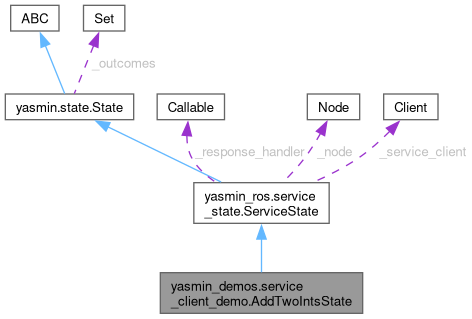
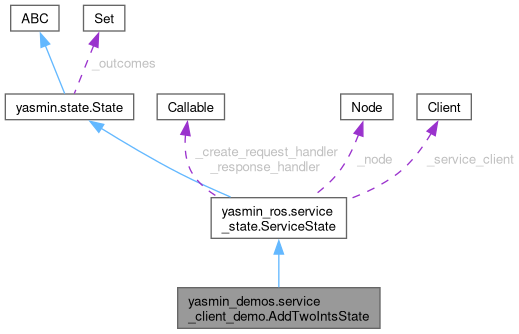
deploy: 8dfc3470e88c670ebcb5c7ff304bde43445bc00b

Changed region(s): [[0.0, 0.0, 1.0, 0.9875]]

diff --git a/yasmin_python/html/classyasmin__ros_1_1service__state_1_1ServiceState.html b/yasmin_python/html/classyasmin__ros_1_1service__state_1_1ServiceState.html
@@ -115,19 +115,19 @@ Collaboration diagram for yasmin_ros.service_state.ServiceState:</div>
 <div class="dyncontent">
 <div class="center"><img src="classyasmin__ros_1_1service__state_1_1ServiceState__coll__graph.png" border="0" usemap="#ayasmin__ros_8service__state_8ServiceState_coll__map" alt="Collaboration graph"/></div>
 <map name="ayasmin__ros_8service__state_8ServiceState_coll__map" id="ayasmin__ros_8service__state_8ServiceState_coll__map">
-<area shape="rect" title=" " alt="" coords="194,183,329,223"/>
+<area shape="rect" title=" " alt="" coords="211,198,346,238"/>
 <area shape="rect" href="classyasmin_1_1state_1_1State.html" title=" " alt="" coords="5,94,134,120"/>
-<area shape="poly" title=" " alt="" coords="109,124,222,180,220,184,107,129"/>
+<area shape="poly" title=" " alt="" coords="102,126,181,171,232,195,229,199,179,176,99,130"/>
 <area shape="rect" title=" " alt="" coords="11,5,59,31"/>
 <area shape="poly" title=" " alt="" coords="48,44,67,93,62,95,43,46"/>
 <area shape="rect" title=" " alt="" coords="84,5,125,31"/>
 <area shape="poly" title=" " alt="" coords="96,46,77,95,72,93,91,44"/>
 <area shape="rect" title=" " alt="" coords="157,94,224,120"/>
-<area shape="poly" title=" " alt="" coords="189,135,195,158,204,170,217,180,214,184,201,174,190,160,184,136"/>
-<area shape="rect" title=" " alt="" coords="307,94,360,120"/>
-<area shape="poly" title=" " alt="" coords="323,134,306,160,285,184,281,180,302,157,319,132"/>
-<area shape="rect" title=" " alt="" coords="384,94,438,120"/>
-<area shape="poly" title=" " alt="" coords="392,133,359,161,315,185,312,180,356,156,388,129"/>
+<area shape="poly" title=" " alt="" coords="188,135,188,154,195,172,206,185,220,195,217,199,202,189,190,175,183,155,183,135"/>
+<area shape="rect" title=" " alt="" coords="341,94,393,120"/>
+<area shape="poly" title=" " alt="" coords="361,136,352,156,340,175,314,199,310,195,335,172,347,153,356,134"/>
+<area shape="rect" title=" " alt="" coords="417,94,471,120"/>
+<area shape="poly" title=" " alt="" coords="433,135,419,156,399,176,375,191,348,202,346,197,372,186,396,172,415,153,429,132"/>
 </map>
 <center><span class="legend">[<a href="graph_legend.html">legend</a>]</span></center></div>
 <table class="memberdecls">
@@ -153,9 +153,9 @@ Public Member Functions</h2></td></tr>
 </table><table class="memberdecls">
 <tr class="heading"><td colspan="2"><h2 class="groupheader"><a id="pro-attribs" name="pro-attribs"></a>
 Protected Attributes</h2></td></tr>
-<tr class="memitem:a66afa1424fc2a8bacafb57e2f730730e" id="r_a66afa1424fc2a8bacafb57e2f730730e"><td class="memItemLeft" align="right" valign="top">tuple&#160;</td><td class="memItemRight" valign="bottom"><a class="el" href="#a66afa1424fc2a8bacafb57e2f730730e">_create_request_handler</a></td></tr>
-<tr class="memdesc:a66afa1424fc2a8bacafb57e2f730730e"><td class="mdescLeft">&#160;</td><td class="mdescRight">A function that creates the service request.  <br /></td></tr>
-<tr class="separator:a66afa1424fc2a8bacafb57e2f730730e"><td class="memSeparator" colspan="2">&#160;</td></tr>
+<tr class="memitem:a6e80320e7112ef28d5c6de350394e76e" id="r_a6e80320e7112ef28d5c6de350394e76e"><td class="memItemLeft" align="right" valign="top">Callable[[<a class="el" href="classyasmin_1_1blackboard_1_1Blackboard.html">Blackboard</a>], Any]&#160;</td><td class="memItemRight" valign="bottom"><a class="el" href="#a6e80320e7112ef28d5c6de350394e76e">_create_request_handler</a> = create_request_handler</td></tr>
+<tr class="memdesc:a6e80320e7112ef28d5c6de350394e76e"><td class="mdescLeft">&#160;</td><td class="mdescRight">A function that creates the service request.  <br /></td></tr>
+<tr class="separator:a6e80320e7112ef28d5c6de350394e76e"><td class="memSeparator" colspan="2">&#160;</td></tr>
 <tr class="memitem:a008725f8428bb29b2094962f62e75ed1" id="r_a008725f8428bb29b2094962f62e75ed1"><td class="memItemLeft" align="right" valign="top">Callable[[<a class="el" href="classyasmin_1_1blackboard_1_1Blackboard.html">Blackboard</a>, Any], str]&#160;</td><td class="memItemRight" valign="bottom"><a class="el" href="#a008725f8428bb29b2094962f62e75ed1">_response_handler</a> = response_handler</td></tr>
 <tr class="memdesc:a008725f8428bb29b2094962f62e75ed1"><td class="mdescLeft">&#160;</td><td class="mdescRight">A function that processes the service response.  <br /></td></tr>
 <tr class="separator:a008725f8428bb29b2094962f62e75ed1"><td class="memSeparator" colspan="2">&#160;</td></tr>
@@ -249,9 +249,9 @@ Attributes:
 Parameters:
     srv_type (Type): The type of the service.
     srv_name (str): The name of the service to be called.
-    create_request_handler (Callable): A handler to create the request based on the blackboard data.
+    create_request_handler (Callable[[Blackboard], Any]): A handler to create the request based on the blackboard data.
     outcomes (Set[str], optional): A set of additional outcomes for this state.
-    response_handler (Callable, optional): A handler to process the service response.
+    response_handler (Callable[[Blackboard, Any], str], optional): A handler to process the service response.
     node (Node, optional): A ROS node instance; if None, a default instance is used.
     timeout (float, optional): Timeout duration for waiting on the service.
 
@@ -304,8 +304,8 @@ Exceptions:
 </div>
 </div>
 <h2 class="groupheader">Member Data Documentation</h2>
-<a id="a66afa1424fc2a8bacafb57e2f730730e" name="a66afa1424fc2a8bacafb57e2f730730e"></a>
-<h2 class="memtitle"><span class="permalink"><a href="#a66afa1424fc2a8bacafb57e2f730730e">&#9670;&#160;</a></span>_create_request_handler</h2>
+<a id="a6e80320e7112ef28d5c6de350394e76e" name="a6e80320e7112ef28d5c6de350394e76e"></a>
+<h2 class="memtitle"><span class="permalink"><a href="#a6e80320e7112ef28d5c6de350394e76e">&#9670;&#160;</a></span>_create_request_handler</h2>
 
 <div class="memitem">
 <div class="memproto">
@@ -314,7 +314,7 @@ Exceptions:
   <td class="mlabels-left">
       <table class="memname">
         <tr>
-          <td class="memname">tuple yasmin_ros.service_state.ServiceState._create_request_handler</td>
+          <td class="memname">Callable[[<a class="el" href="classyasmin_1_1blackboard_1_1Blackboard.html">Blackboard</a>], Any] yasmin_ros.service_state.ServiceState._create_request_handler = create_request_handler</td>
         </tr>
       </table>
   </td>
@@ -323,10 +323,7 @@ Exceptions:
   </tr>
 </table>
 </div><div class="memdoc">
-<b>Initial value:</b><div class="fragment"><div class="line">=  (</div>
-<div class="line">            create_request_handler</div>
-<div class="line">        )</div>
-</div><!-- fragment -->
+
 <p>A function that creates the service request. </p>
 
 </div>

diff --git a/yasmin_python/html/classyasmin__demos_1_1service__client__demo_1_1AddTwoIntsState.html b/yasmin_python/html/classyasmin__demos_1_1service__client__demo_1_1AddTwoIntsState.html
@@ -115,21 +115,21 @@ Collaboration diagram for yasmin_demos.service_client_demo.AddTwoIntsState:</div
 <div class="dyncontent">
 <div class="center"><img src="classyasmin__demos_1_1service__client__demo_1_1AddTwoIntsState__coll__graph.png" border="0" usemap="#ayasmin__demos_8service__client__demo_8AddTwoIntsState_coll__map" alt="Collaboration graph"/></div>
 <map name="ayasmin__demos_8service__client__demo_8AddTwoIntsState_coll__map" id="ayasmin__demos_8service__client__demo_8AddTwoIntsState_coll__map">
-<area shape="rect" title=" " alt="" coords="160,273,363,313"/>
-<area shape="rect" href="classyasmin__ros_1_1service__state_1_1ServiceState.html" title=" " alt="" coords="194,183,329,223"/>
-<area shape="poly" title=" " alt="" coords="264,239,264,272,259,272,259,239"/>
+<area shape="rect" title=" " alt="" coords="178,288,380,328"/>
+<area shape="rect" href="classyasmin__ros_1_1service__state_1_1ServiceState.html" title=" " alt="" coords="211,198,346,238"/>
+<area shape="poly" title=" " alt="" coords="282,254,282,287,276,287,276,254"/>
 <area shape="rect" href="classyasmin_1_1state_1_1State.html" title=" " alt="" coords="5,94,134,120"/>
-<area shape="poly" title=" " alt="" coords="109,124,222,180,220,184,107,129"/>
+<area shape="poly" title=" " alt="" coords="102,126,181,171,232,195,229,199,179,176,99,130"/>
 <area shape="rect" title=" " alt="" coords="11,5,59,31"/>
 <area shape="poly" title=" " alt="" coords="48,44,67,93,62,95,43,46"/>
 <area shape="rect" title=" " alt="" coords="84,5,125,31"/>
 <area shape="poly" title=" " alt="" coords="96,46,77,95,72,93,91,44"/>
 <area shape="rect" title=" " alt="" coords="157,94,224,120"/>
-<area shape="poly" title=" " alt="" coords="189,135,195,158,204,170,217,180,214,184,201,174,190,160,184,136"/>
-<area shape="rect" title=" " alt="" coords="307,94,360,120"/>
-<area shape="poly" title=" " alt="" coords="323,134,306,160,285,184,281,180,302,157,319,132"/>
-<area shape="rect" title=" " alt="" coords="384,94,438,120"/>
-<area shape="poly" title=" " alt="" coords="392,133,359,161,315,185,312,180,356,156,388,129"/>
+<area shape="poly" title=" " alt="" coords="188,135,188,154,195,172,206,185,220,195,217,199,202,189,190,175,183,155,183,135"/>
+<area shape="rect" title=" " alt="" coords="341,94,393,120"/>
+<area shape="poly" title=" " alt="" coords="361,136,352,156,340,175,314,199,310,195,335,172,347,153,356,134"/>
+<area shape="rect" title=" " alt="" coords="417,94,471,120"/>
+<area shape="poly" title=" " alt="" coords="433,135,419,156,399,176,375,191,348,202,346,197,372,186,396,172,415,153,429,132"/>
 </map>
 <center><span class="legend">[<a href="graph_legend.html">legend</a>]</span></center></div>
 <table class="memberdecls">
@@ -168,9 +168,9 @@ Public Attributes</h2></td></tr>
 <tr class="heading"><td colspan="2"><h2 class="groupheader"><a id="inherited" name="inherited"></a>
 Additional Inherited Members</h2></td></tr>
 <tr class="inherit_header pro_attribs_classyasmin__ros_1_1service__state_1_1ServiceState"><td colspan="2" onclick="javascript:dynsection.toggleInherit('pro_attribs_classyasmin__ros_1_1service__state_1_1ServiceState')"><img src="closed.png" alt="-"/>&#160;Protected Attributes inherited from <a class="el" href="classyasmin__ros_1_1service__state_1_1ServiceState.html">yasmin_ros.service_state.ServiceState</a></td></tr>
-<tr class="memitem:a66afa1424fc2a8bacafb57e2f730730e inherit pro_attribs_classyasmin__ros_1_1service__state_1_1ServiceState" id="r_a66afa1424fc2a8bacafb57e2f730730e"><td class="memItemLeft" align="right" valign="top">tuple&#160;</td><td class="memItemRight" valign="bottom"><a class="el" href="classyasmin__ros_1_1service__state_1_1ServiceState.html#a66afa1424fc2a8bacafb57e2f730730e">_create_request_handler</a></td></tr>
-<tr class="memdesc:a66afa1424fc2a8bacafb57e2f730730e inherit pro_attribs_classyasmin__ros_1_1service__state_1_1ServiceState"><td class="mdescLeft">&#160;</td><td class="mdescRight">A function that creates the service request.  <br /></td></tr>
-<tr class="separator:a66afa1424fc2a8bacafb57e2f730730e inherit pro_attribs_classyasmin__ros_1_1service__state_1_1ServiceState"><td class="memSeparator" colspan="2">&#160;</td></tr>
+<tr class="memitem:a6e80320e7112ef28d5c6de350394e76e inherit pro_attribs_classyasmin__ros_1_1service__state_1_1ServiceState" id="r_a6e80320e7112ef28d5c6de350394e76e"><td class="memItemLeft" align="right" valign="top">Callable[[<a class="el" href="classyasmin_1_1blackboard_1_1Blackboard.html">Blackboard</a>], Any]&#160;</td><td class="memItemRight" valign="bottom"><a class="el" href="classyasmin__ros_1_1service__state_1_1ServiceState.html#a6e80320e7112ef28d5c6de350394e76e">_create_request_handler</a> = create_request_handler</td></tr>
+<tr class="memdesc:a6e80320e7112ef28d5c6de350394e76e inherit pro_attribs_classyasmin__ros_1_1service__state_1_1ServiceState"><td class="mdescLeft">&#160;</td><td class="mdescRight">A function that creates the service request.  <br /></td></tr>
+<tr class="separator:a6e80320e7112ef28d5c6de350394e76e inherit pro_attribs_classyasmin__ros_1_1service__state_1_1ServiceState"><td class="memSeparator" colspan="2">&#160;</td></tr>
 <tr class="memitem:a008725f8428bb29b2094962f62e75ed1 inherit pro_attribs_classyasmin__ros_1_1service__state_1_1ServiceState" id="r_a008725f8428bb29b2094962f62e75ed1"><td class="memItemLeft" align="right" valign="top">Callable[[<a class="el" href="classyasmin_1_1blackboard_1_1Blackboard.html">Blackboard</a>, Any], str]&#160;</td><td class="memItemRight" valign="bottom"><a class="el" href="classyasmin__ros_1_1service__state_1_1ServiceState.html#a008725f8428bb29b2094962f62e75ed1">_response_handler</a> = response_handler</td></tr>
 <tr class="memdesc:a008725f8428bb29b2094962f62e75ed1 inherit pro_attribs_classyasmin__ros_1_1service__state_1_1ServiceState"><td class="mdescLeft">&#160;</td><td class="mdescRight">A function that processes the service response.  <br /></td></tr>
 <tr class="separator:a008725f8428bb29b2094962f62e75ed1 inherit pro_attribs_classyasmin__ros_1_1service__state_1_1ServiceState"><td class="memSeparator" colspan="2">&#160;</td></tr>

diff --git a/yasmin_python/html/classyasmin__ros_1_1service__state_1_1ServiceState-members.html b/yasmin_python/html/classyasmin__ros_1_1service__state_1_1ServiceState-members.html
@@ -96,7 +96,7 @@ $(function(){ initResizable(false); });
 <p>This is the complete list of members for <a class="el" href="classyasmin__ros_1_1service__state_1_1ServiceState.html">yasmin_ros.service_state.ServiceState</a>, including all inherited members.</p>
 <table class="directory">
   <tr class="even"><td class="entry"><a class="el" href="classyasmin__ros_1_1service__state_1_1ServiceState.html#a6aab905f657a87496b3b0d5f8b0f6eda">__init__</a>(self, Type srv_type, str srv_name, Callable create_request_handler, Set[str] outcomes=None, Callable response_handler=None, Node node=None, float timeout=None)</td><td class="entry"><a class="el" href="classyasmin__ros_1_1service__state_1_1ServiceState.html">yasmin_ros.service_state.ServiceState</a></td><td class="entry"></td></tr>
-  <tr class="odd"><td class="entry"><a class="el" href="classyasmin__ros_1_1service__state_1_1ServiceState.html#a66afa1424fc2a8bacafb57e2f730730e">_create_request_handler</a></td><td class="entry"><a class="el" href="classyasmin__ros_1_1service__state_1_1ServiceState.html">yasmin_ros.service_state.ServiceState</a></td><td class="entry"><span class="mlabel">protected</span></td></tr>
+  <tr class="odd"><td class="entry"><a class="el" href="classyasmin__ros_1_1service__state_1_1ServiceState.html#a6e80320e7112ef28d5c6de350394e76e">_create_request_handler</a></td><td class="entry"><a class="el" href="classyasmin__ros_1_1service__state_1_1ServiceState.html">yasmin_ros.service_state.ServiceState</a></td><td class="entry"><span class="mlabel">protected</span></td></tr>
   <tr class="even"><td class="entry"><a class="el" href="classyasmin__ros_1_1service__state_1_1ServiceState.html#a11e0d8b1418519720a790010c734f788">_node</a></td><td class="entry"><a class="el" href="classyasmin__ros_1_1service__state_1_1ServiceState.html">yasmin_ros.service_state.ServiceState</a></td><td class="entry"><span class="mlabel">protected</span></td></tr>
   <tr class="odd"><td class="entry"><a class="el" href="classyasmin__ros_1_1service__state_1_1ServiceState.html#a008725f8428bb29b2094962f62e75ed1">_response_handler</a></td><td class="entry"><a class="el" href="classyasmin__ros_1_1service__state_1_1ServiceState.html">yasmin_ros.service_state.ServiceState</a></td><td class="entry"><span class="mlabel">protected</span></td></tr>
   <tr class="even"><td class="entry"><a class="el" href="classyasmin__ros_1_1service__state_1_1ServiceState.html#ac07f81cad5500c8e9589b1fd5633c807">_service_client</a></td><td class="entry"><a class="el" href="classyasmin__ros_1_1service__state_1_1ServiceState.html">yasmin_ros.service_state.ServiceState</a></td><td class="entry"><span class="mlabel">protected</span></td></tr>

diff --git a/yasmin_python/html/functions.html b/yasmin_python/html/functions.html
@@ -117,7 +117,7 @@ $(function(){ initResizable(false); });
 <li>_canceled&#160;:&#160;<a class="el" href="classyasmin_1_1state_1_1State.html#a8ae105dcc637e63fd20a8bfa21f9b06a">yasmin.state.State</a></li>
 <li>_cb&#160;:&#160;<a class="el" href="classyasmin_1_1cb__state_1_1CbState.html#a62973de9536fa5077fade38a8247af41">yasmin.cb_state.CbState</a></li>
 <li>_create_goal_handler&#160;:&#160;<a class="el" href="classyasmin__ros_1_1action__state_1_1ActionState.html#a8c7e02b29e2845e324fddaeee1929504">yasmin_ros.action_state.ActionState</a></li>
-<li>_create_request_handler&#160;:&#160;<a class="el" href="classyasmin__ros_1_1service__state_1_1ServiceState.html#a66afa1424fc2a8bacafb57e2f730730e">yasmin_ros.service_state.ServiceState</a></li>
+<li>_create_request_handler&#160;:&#160;<a class="el" href="classyasmin__ros_1_1service__state_1_1ServiceState.html#a6e80320e7112ef28d5c6de350394e76e">yasmin_ros.service_state.ServiceState</a></li>
 <li>_data&#160;:&#160;<a class="el" href="classyasmin_1_1blackboard_1_1Blackboard.html#a3193169ffb432d61ca04df99b0522c83">yasmin.blackboard.Blackboard</a></li>
 <li>_executor&#160;:&#160;<a class="el" href="classyasmin__ros_1_1yasmin__node_1_1YasminNode.html#a01d7717a1c05323eb9741648e4bbcaad">yasmin_ros.yasmin_node.YasminNode</a></li>
 <li>_feedback_handler&#160;:&#160;<a class="el" href="classyasmin__ros_1_1action__state_1_1ActionState.html#a4c4e2ca955adfbd90a9d8d1874ac9bda">yasmin_ros.action_state.ActionState</a></li>

diff --git a/yasmin_python/html/functions_vars.html b/yasmin_python/html/functions_vars.html
@@ -104,7 +104,7 @@ $(function(){ initResizable(false); });
 <li>_canceled&#160;:&#160;<a class="el" href="classyasmin_1_1state_1_1State.html#a8ae105dcc637e63fd20a8bfa21f9b06a">yasmin.state.State</a></li>
 <li>_cb&#160;:&#160;<a class="el" href="classyasmin_1_1cb__state_1_1CbState.html#a62973de9536fa5077fade38a8247af41">yasmin.cb_state.CbState</a></li>
 <li>_create_goal_handler&#160;:&#160;<a class="el" href="classyasmin__ros_1_1action__state_1_1ActionState.html#a8c7e02b29e2845e324fddaeee1929504">yasmin_ros.action_state.ActionState</a></li>
-<li>_create_request_handler&#160;:&#160;<a class="el" href="classyasmin__ros_1_1service__state_1_1ServiceState.html#a66afa1424fc2a8bacafb57e2f730730e">yasmin_ros.service_state.ServiceState</a></li>
+<li>_create_request_handler&#160;:&#160;<a class="el" href="classyasmin__ros_1_1service__state_1_1ServiceState.html#a6e80320e7112ef28d5c6de350394e76e">yasmin_ros.service_state.ServiceState</a></li>
 <li>_data&#160;:&#160;<a class="el" href="classyasmin_1_1blackboard_1_1Blackboard.html#a3193169ffb432d61ca04df99b0522c83">yasmin.blackboard.Blackboard</a></li>
 <li>_executor&#160;:&#160;<a class="el" href="classyasmin__ros_1_1yasmin__node_1_1YasminNode.html#a01d7717a1c05323eb9741648e4bbcaad">yasmin_ros.yasmin_node.YasminNode</a></li>
 <li>_feedback_handler&#160;:&#160;<a class="el" href="classyasmin__ros_1_1action__state_1_1ActionState.html#a4c4e2ca955adfbd90a9d8d1874ac9bda">yasmin_ros.action_state.ActionState</a></li>

diff --git a/yasmin_python/html/search/all_0.js b/yasmin_python/html/search/all_0.js
@@ -31,7 +31,7 @@ var searchData=
   ['_5fcanceled_28',['_canceled',['../classyasmin_1_1state_1_1State.html#a8ae105dcc637e63fd20a8bfa21f9b06a',1,'yasmin::state::State']]],
   ['_5fcb_29',['_cb',['../classyasmin_1_1cb__state_1_1CbState.html#a62973de9536fa5077fade38a8247af41',1,'yasmin::cb_state::CbState']]],
   ['_5fcreate_5fgoal_5fhandler_30',['_create_goal_handler',['../classyasmin__ros_1_1action__state_1_1ActionState.html#a8c7e02b29e2845e324fddaeee1929504',1,'yasmin_ros::action_state::ActionState']]],
-  ['_5fcreate_5frequest_5fhandler_31',['_create_request_handler',['../classyasmin__ros_1_1service__state_1_1ServiceState.html#a66afa1424fc2a8bacafb57e2f730730e',1,'yasmin_ros::service_state::ServiceState']]],
+  ['_5fcreate_5frequest_5fhandler_31',['_create_request_handler',['../classyasmin__ros_1_1service__state_1_1ServiceState.html#a6e80320e7112ef28d5c6de350394e76e',1,'yasmin_ros::service_state::ServiceState']]],
   ['_5fdata_32',['_data',['../classyasmin_1_1blackboard_1_1Blackboard.html#a3193169ffb432d61ca04df99b0522c83',1,'yasmin::blackboard::Blackboard']]],
   ['_5fexecutor_33',['_executor',['../classyasmin__ros_1_1yasmin__node_1_1YasminNode.html#a01d7717a1c05323eb9741648e4bbcaad',1,'yasmin_ros::yasmin_node::YasminNode']]],
   ['_5ffeedback_5fhandler_34',['_feedback_handler',['../classyasmin__ros_1_1action__state_1_1ActionState.html#a4c4e2ca955adfbd90a9d8d1874ac9bda',1,'yasmin_ros::action_state::ActionState']]],

diff --git a/yasmin_python/html/search/variables_0.js b/yasmin_python/html/search/variables_0.js
@@ -17,7 +17,7 @@ var searchData=
   ['_5fcanceled_14',['_canceled',['../classyasmin_1_1state_1_1State.html#a8ae105dcc637e63fd20a8bfa21f9b06a',1,'yasmin::state::State']]],
   ['_5fcb_15',['_cb',['../classyasmin_1_1cb__state_1_1CbState.html#a62973de9536fa5077fade38a8247af41',1,'yasmin::cb_state::CbState']]],
   ['_5fcreate_5fgoal_5fhandler_16',['_create_goal_handler',['../classyasmin__ros_1_1action__state_1_1ActionState.html#a8c7e02b29e2845e324fddaeee1929504',1,'yasmin_ros::action_state::ActionState']]],
-  ['_5fcreate_5frequest_5fhandler_17',['_create_request_handler',['../classyasmin__ros_1_1service__state_1_1ServiceState.html#a66afa1424fc2a8bacafb57e2f730730e',1,'yasmin_ros::service_state::ServiceState']]],
+  ['_5fcreate_5frequest_5fhandler_17',['_create_request_handler',['../classyasmin__ros_1_1service__state_1_1ServiceState.html#a6e80320e7112ef28d5c6de350394e76e',1,'yasmin_ros::service_state::ServiceState']]],
   ['_5fdata_18',['_data',['../classyasmin_1_1blackboard_1_1Blackboard.html#a3193169ffb432d61ca04df99b0522c83',1,'yasmin::blackboard::Blackboard']]],
   ['_5fexecutor_19',['_executor',['../classyasmin__ros_1_1yasmin__node_1_1YasminNode.html#a01d7717a1c05323eb9741648e4bbcaad',1,'yasmin_ros::yasmin_node::YasminNode']]],
   ['_5ffeedback_5fhandler_20',['_feedback_handler',['../classyasmin__ros_1_1action__state_1_1ActionState.html#a4c4e2ca955adfbd90a9d8d1874ac9bda',1,'yasmin_ros::action_state::ActionState']]],

diff --git a/yasmin_python/html/classyasmin__ros_1_1action__state_1_1ActionState.html b/yasmin_python/html/classyasmin__ros_1_1action__state_1_1ActionState.html
@@ -304,10 +304,10 @@ This constructor sets up the action client and prepares to handle goals.
 Parameters:
     action_type (Type): The type of the action to be executed.
     action_name (str): The name of the action to be executed.
-    create_goal_handler (Callable): A function that generates the goal.
+    create_goal_handler (Callable[[Blackboard], Any])): A function that generates the goal.
     outcomes (Set[str], optional): Additional outcomes that this state can return.
-    result_handler (Callable, optional): A function to process the result of the action.
-    feedback_handler (Callable, optional): A function to process feedback from the action.
+    result_handler (Callable[[Blackboard, Any], str], optional): A function to process the result of the action.
+    feedback_handler (Callable[[Blackboard, Any], None], optional): A function to process feedback from the action.
     node (Node, optional): The ROS 2 node to use. If None, uses the default YasminNode.
     timeout (float, optional): Timeout duration for waiting for the action server.
 

diff --git a/yasmin_python/html/doxygen_crawl.html b/yasmin_python/html/doxygen_crawl.html
@@ -300,8 +300,8 @@
 <a href="classyasmin__ros_1_1service__state_1_1ServiceState.html#a05dae29d1e2a198075ecf319d40bf766"/>
 <a href="classyasmin__ros_1_1service__state_1_1ServiceState.html#a062b06ab6440e27e81b14666f7525fd6"/>
 <a href="classyasmin__ros_1_1service__state_1_1ServiceState.html#a11e0d8b1418519720a790010c734f788"/>
-<a href="classyasmin__ros_1_1service__state_1_1ServiceState.html#a66afa1424fc2a8bacafb57e2f730730e"/>
 <a href="classyasmin__ros_1_1service__state_1_1ServiceState.html#a6aab905f657a87496b3b0d5f8b0f6eda"/>
+<a href="classyasmin__ros_1_1service__state_1_1ServiceState.html#a6e80320e7112ef28d5c6de350394e76e"/>
 <a href="classyasmin__ros_1_1service__state_1_1ServiceState.html#a89fdfb19019d8619f06fb1ac0a2b3dac"/>
 <a href="classyasmin__ros_1_1service__state_1_1ServiceState.html#ac07f81cad5500c8e9589b1fd5633c807"/>
 <a href="classyasmin__ros_1_1yasmin__node_1_1YasminNode.html"/>

diff --git a/yasmin_python/html/classyasmin__ros_1_1monitor__state_1_1MonitorState.html b/yasmin_python/html/classyasmin__ros_1_1monitor__state_1_1MonitorState.html
@@ -277,7 +277,7 @@ Parameters:
     msg_type (Type): The type of message to be monitored.
     topic_name (str): The name of the topic to subscribe to.
     outcomes (Set[str]): The set of possible outcomes from the state.
-    monitor_handler (Callable): The function to call with the received messages.
+    monitor_handler (Callable[[Blackboard, Any], None]): The function to call with the received messages.
     qos (Union[QoSProfile, int], optional): Quality of Service profile or depth.
     msg_queue (int, optional): Maximum number of messages to store. Default is 10.
     node (Node, optional): The ROS node to use. If None, a default node is created.

diff --git a/yasmin_python/html/classyasmin__demos_1_1action__client__demo_1_1FibonacciState.html b/yasmin_python/html/classyasmin__demos_1_1action__client__demo_1_1FibonacciState.html
@@ -372,8 +372,7 @@ Raises:
         <tr>
           <td class="paramkey"></td>
           <td></td>
-          <td class="paramtype">Fibonacci.Result
-    </td>          <td class="paramname"><span class="paramname"><em>response</em></span>&#160;)</td>
+          <td class="paramtype">Fibonacci.Result</td>          <td class="paramname"><span class="paramname"><em>response</em></span>&#160;)</td>
         </tr>
       </table>
 </div><div class="memdoc">
